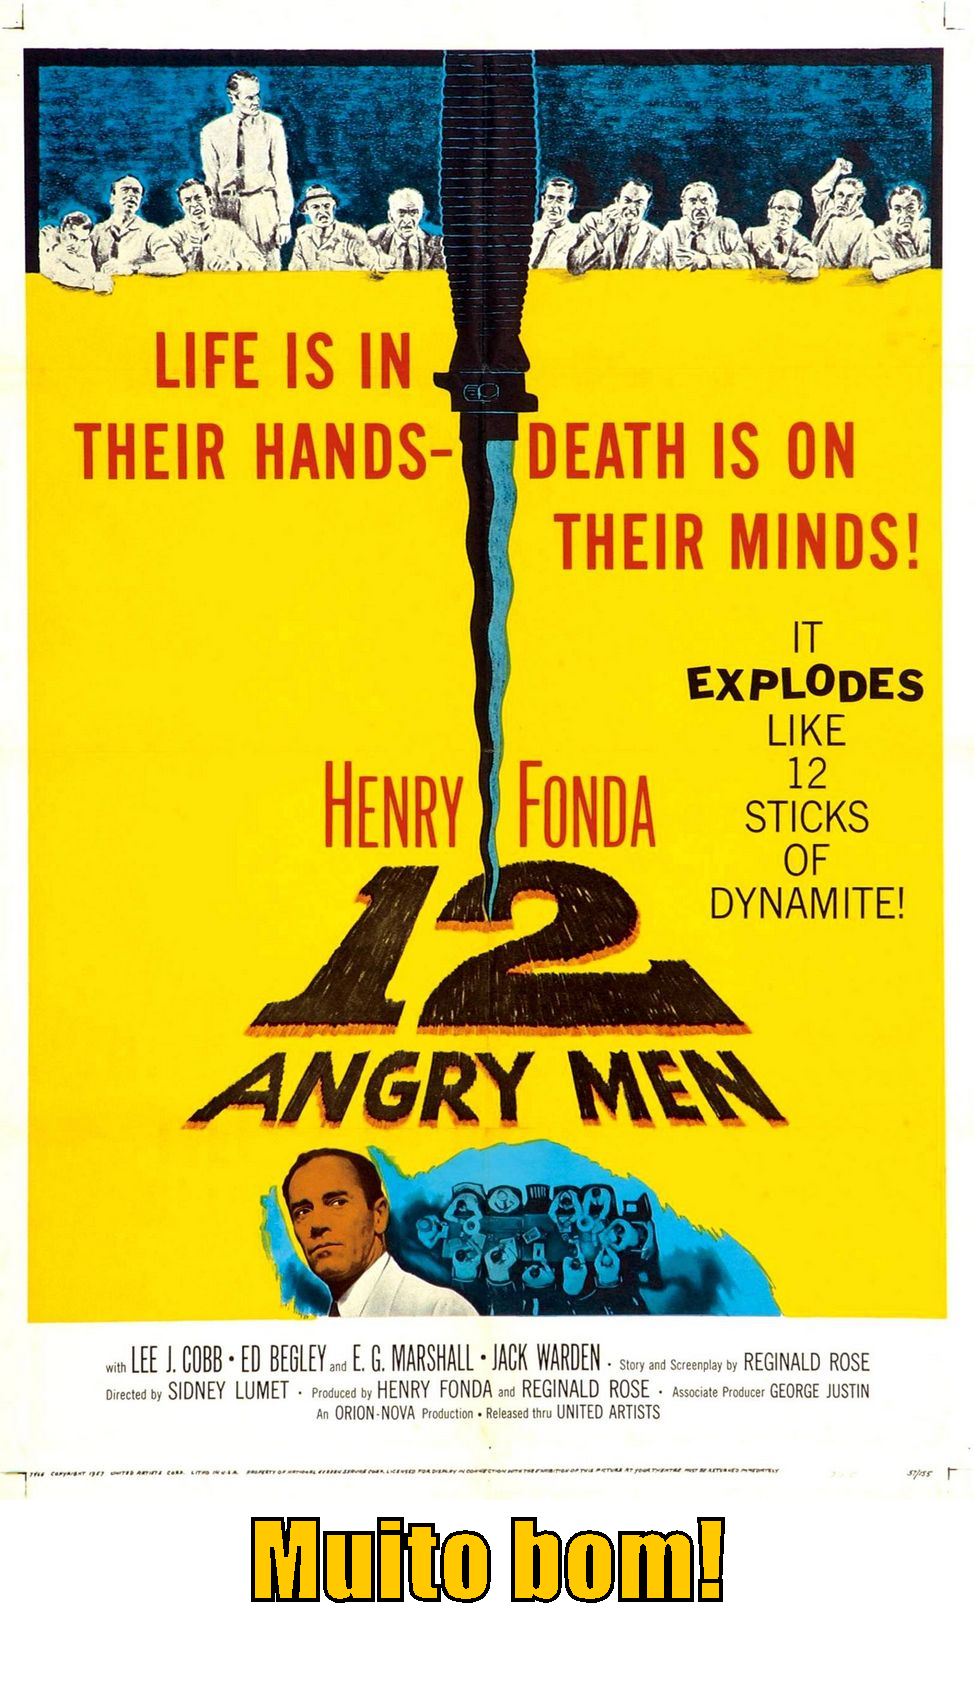
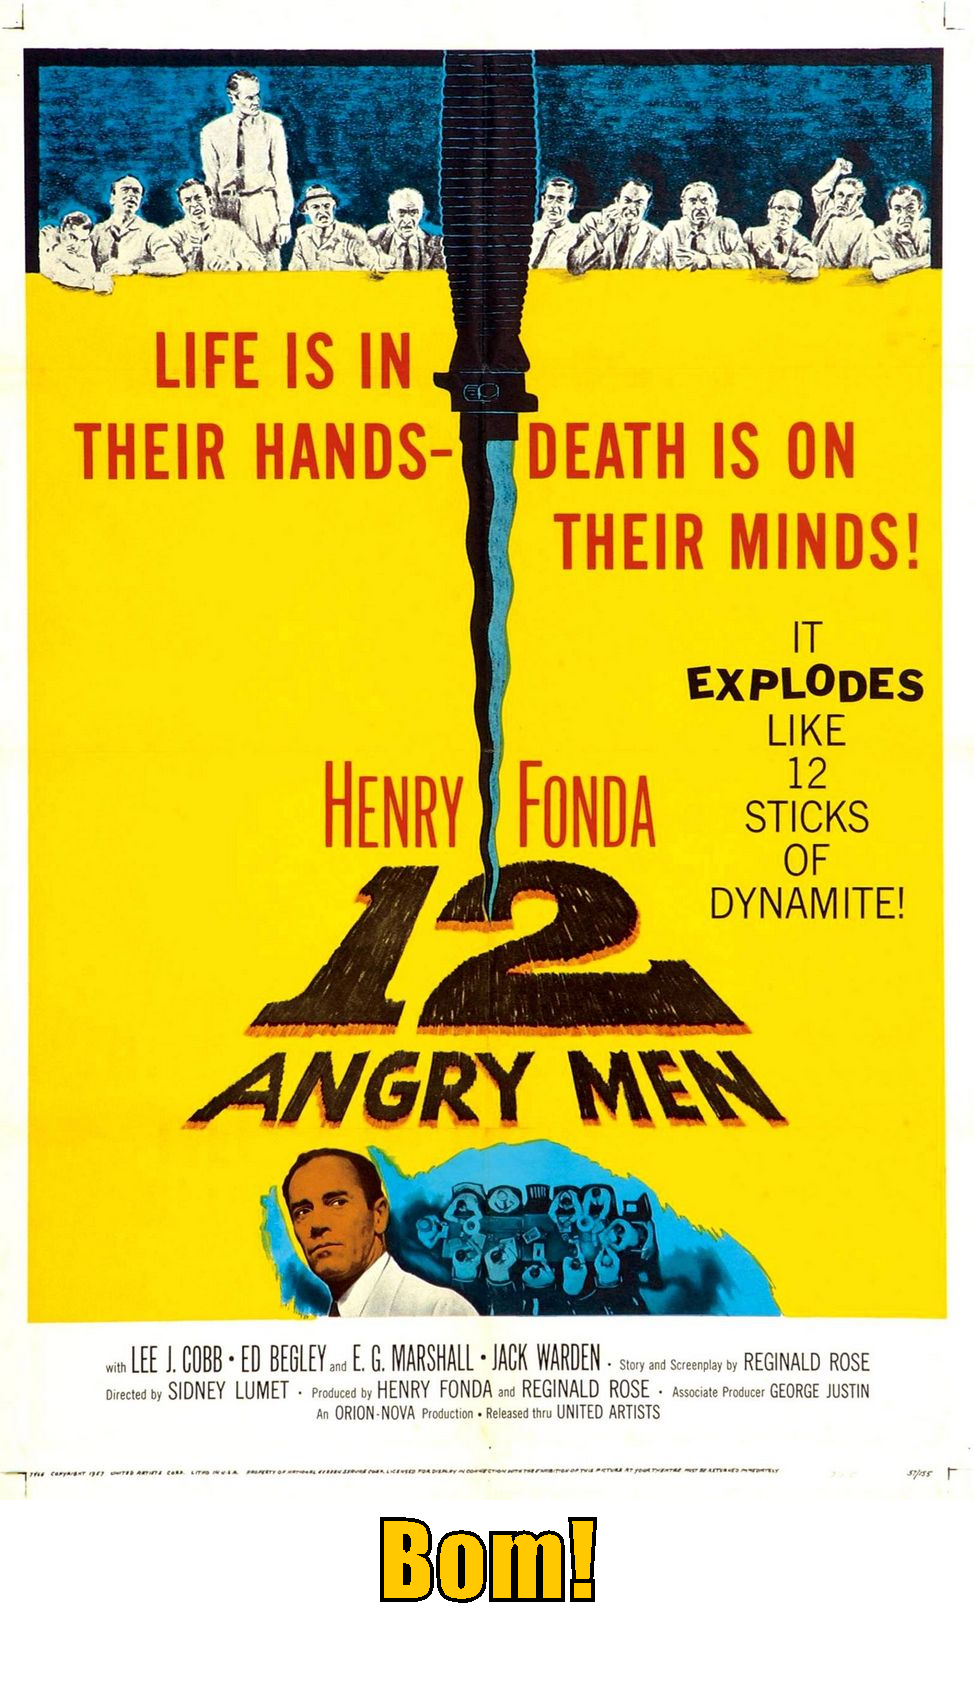
Dia 4 Imersão Java Alura

Changed region(s): [[0.2464, 0.8729, 0.77, 0.9665]]

diff --git a/src/API.java b/src/API.java
@@ -2,7 +2,8 @@ public enum API {
     
     IMDB_TOP_MOVIES("https://raw.githubusercontent.com/alura-cursos/imersao-java-2-api/main/TopMovies.json", new ExtratorConteudoImDb()),
     IMDB_TOP_SERIES("https://raw.githubusercontent.com/alura-cursos/imersao-java-2-api/main/TopTVs.json", new ExtratorConteudoImDb()),
-    NASA ("https://api.nasa.gov/planetary/apod?api_key=bMdBeyJyImenYLZCP9JpeVGLDrIySzYhRcAz3oeD&start_date=2021-02-15&end_date=2022-02-18", new ExtratorConteudoNasa());
+    NASA ("https://api.nasa.gov/planetary/apod?api_key=bMdBeyJyImenYLZCP9JpeVGLDrIySzYhRcAz3oeD&start_date=2021-02-15&end_date=2022-02-18", new ExtratorConteudoNasa()),
+    LINGUAGENS ("http://localhost:8080/linguagens", new ExtratorConteudoImDb());
     
     private String url;
     private ExtratorDeConteudo extrator;

diff --git a/src/FabricaDeFigurinha.java b/src/FabricaDeFigurinha.java
@@ -39,7 +39,7 @@ public class FabricaDeFigurinha {
         graphics.setFont(fonte);
        
         // escrever na nova imagem
-        String texto = "Muito bom!";
+        String texto = "Bom!";
         FontMetrics metricasFonte =graphics.getFontMetrics();
         Rectangle2D retangulo = metricasFonte.getStringBounds(texto, graphics);
 

diff --git a/src/App.java b/src/App.java
@@ -5,7 +5,7 @@ import java.util.List;
 public class App {
     public static void main(String[] args) throws Exception {
 
-        API api = API.NASA;
+        API api = API.LINGUAGENS;
 
         
         String url = api.getUrl();

diff --git a/src/ExtratorConteudoImDb.java b/src/ExtratorConteudoImDb.java
@@ -1,6 +1,5 @@
 import java.util.List;
 import java.util.Map;
-import java.util.ArrayList;
 
 public class ExtratorConteudoImDb implements ExtratorDeConteudo {
 

diff --git a/src/ExtratorConteudoNasa.java b/src/ExtratorConteudoNasa.java
@@ -1,6 +1,5 @@
 import java.util.List;
 import java.util.Map;
-import java.util.ArrayList;
 
 public class ExtratorConteudoNasa implements ExtratorDeConteudo {
 

diff --git a/README.md b/README.md
@@ -14,6 +14,8 @@ Segunda aula: Senti mais dificuldade e precisei buscar um pouco mais de auxílio
 
 Terceira Aula: Aula desafiadora, onde tivemos a oportunidade de começar a limpar o código, lidando com herança, polimorfismo e outras formas. Segui , na maior parte do tempo, o que foi demonstrado pelos instrutores, mas surgiram alguns erros, trabalhei para encontrá-los e corrigi-los. Saio desta aula tendo a certeza do quanto a imersão sendo benéfica, que com toda certeza, utilizarei este projeto como uma fonte de estudo posteriormente.
 
+Quarta Aula: Tivemos a oportunidade de criar nossa própria API, foi desafiador, pois não tive contato com Spring, MongoDB e Postman anteriormente, achei incrível essa experiência, encontrei dificuldades e também formas de resolve-las, estou feliz com todo esse aprendizado. 
+
 
 ## 🚀 Tecnologias
 
@@ -24,6 +26,9 @@ Esse projeto foi desenvolvido com as seguintes tecnologias:
 - Json
 - Git e Github
 - Visual Studio Code
+- Spring
+- MongoDB
+- Postman
 
 ## 💻 Projeto
     
@@ -69,6 +74,17 @@ Iniciamos realizando conexão Http para buscar top 250 filmes do site IMDB, extr
         ⒊ Usar recursos do Java 8 e posterior, como Streams e Lambdas, para mapear uma lista em uma outra.
 
         4. Criar uma Enum que une, como configurações, a URL da API e o extrator utilizado.
+</p>
+
+<h3> Aula 4 -  Criando nossa própria API com SPRING </h3>
+<p>
+• Desafios do quarto dia:
+
+        ⒈ Finalizar o CRUD (Create, Read, Update e Delete) para que se possa atualizar e excluir uma linguagem cadastrada;
+        
+        ⒉ Devolver a listagem ordenada pelo ranking;Devolver a listagem ordenada pelo ranking;
+
+        ⒊ Retornar o status 201 quando um recurso (linguagem, no nosso caso) for cadastrado através do POST; 
 </p>
 
 
